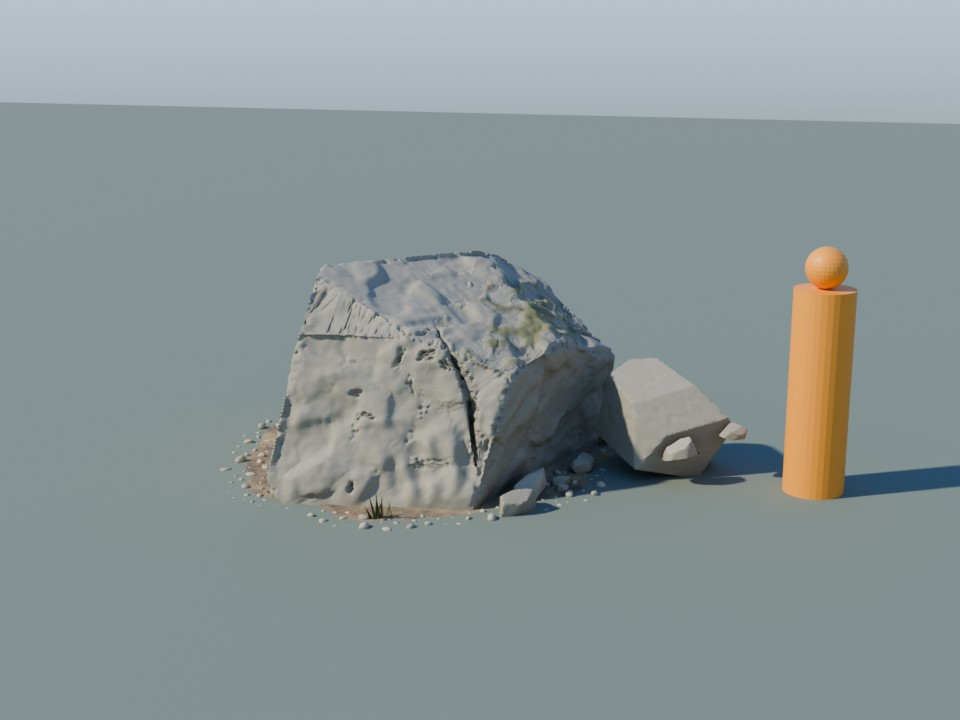
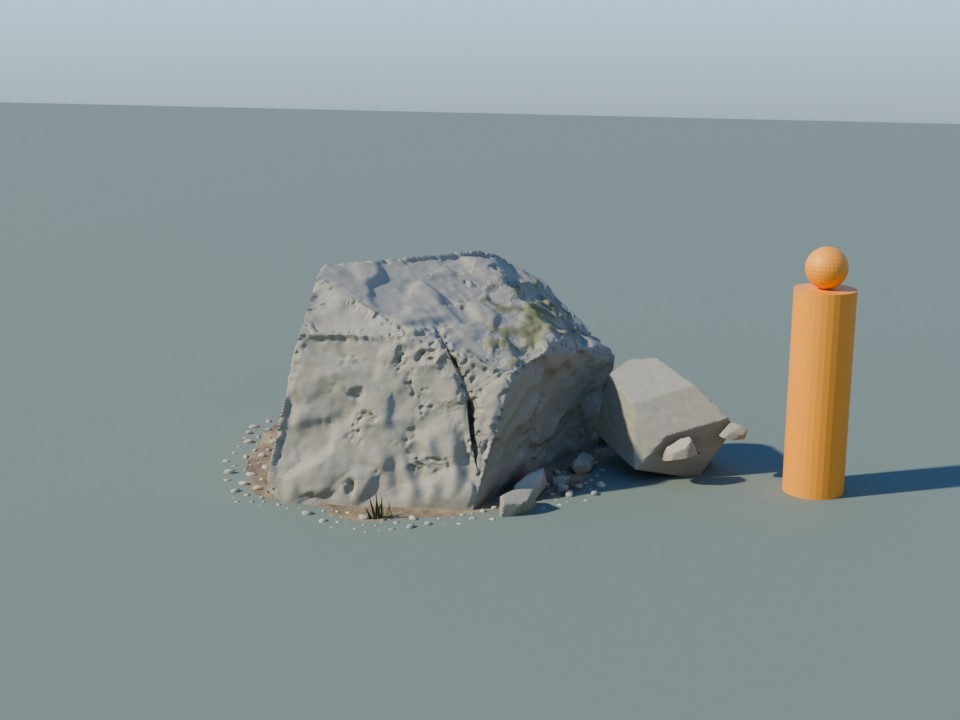
Repair boulder fracture-face tessellation and edge displacement

diff --git a/assets/rocks/rock_boulder_b/build.py b/assets/rocks/rock_boulder_b/build.py
@@ -7,6 +7,7 @@ import bpy
 import numpy as np
 from mathutils import Quaternion, Vector, noise
 from mathutils.bvhtree import BVHTree
+from mathutils.kdtree import KDTree
 
 import vrlib
 import vrmat
@@ -733,11 +734,14 @@ def weather_faces(body):
     bm=bmesh.new()
     bm.from_mesh(mesh)
     bmesh.ops.triangulate(bm,faces=list(bm.faces))
+    planar_edges=[edge for edge in bm.edges if edge.is_manifold and edge.calc_face_angle()<math.radians(5)]
+    bmesh.ops.beautify_fill(bm,faces=list(bm.faces),edges=planar_edges)
     for _ in range(8):
         long_edges=[edge for edge in bm.edges if edge.calc_length()>.038]
         if not long_edges:
             break
         bmesh.ops.subdivide_edges(bm,edges=long_edges,cuts=1,use_grid_fill=True)
+        bmesh.ops.triangulate(bm,faces=list(bm.faces))
     pending=set(bm.faces)
     components=[]
     while pending:
@@ -757,19 +761,17 @@ def weather_faces(body):
     mesh.update()
     mesh.set_sharp_from_angle(angle=math.radians(16))
     sharp=mesh.attributes.get("sharp_edge")
-    adjacent=[set() for vertex in mesh.vertices]
     boundary=set()
     for edge in mesh.edges:
         a,b=edge.vertices
-        adjacent[a].add(b)
-        adjacent[b].add(a)
         if sharp is not None and sharp.data[edge.index].value:
             boundary.update((a,b))
-    distances={i:0 for i in boundary}
-    frontier=boundary
-    for step in range(1,5):
-        frontier={j for i in frontier for j in adjacent[i] if j not in distances}
-        distances.update({i:step for i in frontier})
+    tree=KDTree(len(boundary)) if boundary else None
+    if tree is not None:
+        for index in boundary:
+            tree.insert(mesh.vertices[index].co,index)
+        tree.balance()
+    centre=Vector(tuple((min(v.co[i] for v in mesh.vertices)+max(v.co[i] for v in mesh.vertices))*.5 for i in range(3)))
     attribute=mesh.attributes.new("weather_relief","FLOAT","POINT")
     offsets=[]
     normals=[vertex.normal.copy() for vertex in mesh.vertices]
@@ -781,13 +783,15 @@ def weather_faces(body):
         stepped=sum(weight*noise.cell(sites[k]) for k,weight in enumerate(weights))/sum(weights)
         bed=.010*max(0,math.sin(dip*math.tau/.34+.25*noise.noise(p*2)))**3
         bed*=feather((noise.noise(p*2+Vector((4,8,2)))-.18)*4)
-        distance=distances.get(vertex.index,4)
+        distance=tree.find(p)[2] if tree is not None else .25
         ripple=.012*math.sin(p.dot(Vector((4,7,3)))*math.tau+1.5*noise.noise(p*4))
         ripple*=feather((noise.noise(p*1.7)-.28)*5)
-        chip=.020*feather((noise.noise(p*23)-.10)*3)*(1-feather(distance/4))
-        amount=(.035*stepped+bed+ripple+.004*noise.noise(p*17))*feather(distance/2)-chip
+        chip=.020*feather((noise.noise(p*23)-.10)*3)*(1-feather(distance/.08))
+        taper=feather(distance/.04)
+        amount=(.035*stepped+bed+ripple+.004*noise.noise(p*17))*taper-chip
         amount*=feather((p.z+.035)/.15)
-        vertex.co+=normal*amount
+        direction=(normal*taper+(p-centre).normalized()*(1-taper)).normalized()
+        vertex.co+=direction*amount
         attribute.data[vertex.index].value=amount
         offsets.append(amount)
     mesh.update()

diff --git a/assets/rocks/rock_boulder_b/check.py b/assets/rocks/rock_boulder_b/check.py
@@ -66,6 +66,11 @@ if asset=="rock_boulder_b":
     relief=[v.value for v in main.data.attributes["weather_relief"].data]
     assert .025<max(relief)-min(relief)<.11,(min(relief),max(relief))
     assert max(abs(v) for v in relief)<.055
+    assert all(len(face.vertices)==3 for face in main.data.polygons)
+    longest=max((main.data.vertices[e.vertices[0]].co-main.data.vertices[e.vertices[1]].co).length for e in main.data.edges)
+    assert longest<.09,longest
+    assert not main.data.has_custom_normals
+    print("B_FRACTURE_TOPOLOGY: all triangles before displacement; max edge",round(longest,4),"m; no custom normals")
     assert sum(abs(v)>.01 for v in relief)>1000
     assert any(n.type=="AMBIENT_OCCLUSION" for n in main.data.materials[0].node_tree.nodes)
     lichen=main.data.materials[0].node_tree.nodes["MetricLichen"]
